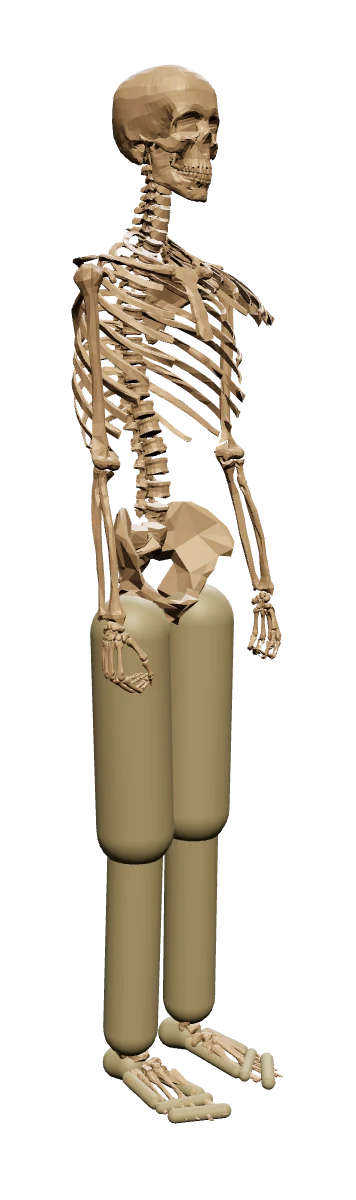
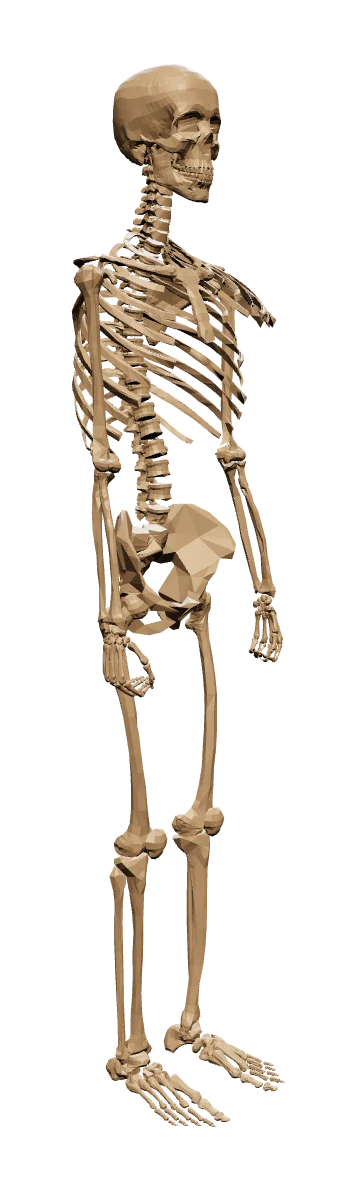
Separate MJCF visual and collision groups

Changed region(s): [[0.1854, 0.0617, 0.8034, 0.9558], [0.309, 0.0925, 0.3399, 0.1233]]

diff --git a/web/js/mjcf.js b/web/js/mjcf.js
@@ -28,9 +28,11 @@
  * - **A free joint is six.** The gallery pins every robot the way a URDF root
  *   link is pinned, so a free joint becomes a fixed one — the base is where the
  *   description puts it and there is nothing to actuate.
- * - **Geometry says whether it is for looking at or for touching.** MuJoCo
- *   draws geom groups 0–2 and hides 3 and up, which is exactly the split the
- *   gallery's visual/collision toggle wants, so that is the rule used here.
+ * - **Geometry says whether it is for looking at or for touching.** Authors
+ *   normally separate render and contact shapes by geom group, but the group
+ *   numbers are only labels — Menagerie mostly uses 2/3 while MS-Human-700
+ *   uses 0/1. The mesh-rich, non-contact group is therefore selected as the
+ *   visual view and the other groups become the collision view.
  *
  * Nothing in here touches the DOM or the network directly: the caller supplies
  * a URL resolver and a loading manager, which is what lets the same code serve
@@ -53,18 +55,6 @@ const DEFAULT_ANGLE = 'degree';
 
 /** The grey MuJoCo paints a geom that names neither `rgba` nor a material. */
 const DEFAULT_RGBA = [0.5, 0.5, 0.5, 1];
-
-/**
- * Geom groups the gallery reads as collision geometry.
- *
- * MuJoCo's viewer draws groups 0, 1 and 2 and leaves 3 and up switched off,
- * and Menagerie is written to that convention: a `class="visual"` default sets
- * `group="2"`, a `class="collision"` one sets `group="3"`. Following the same
- * line means a model that never split the two — one geom doing both jobs, as
- * most simple descriptions do — comes out as visible geometry rather than as a
- * robot made entirely of translucent hulls.
- */
-const COLLISION_GROUP = 3;
 
 /** Geom types that describe the world rather than the robot, or that nothing
  *  here can draw: an infinite ground plane, a height field, a signed-distance
@@ -612,6 +602,7 @@ export class MJCFDocument {
     this.textureJobs = new Map();
     this.mass = 0;
     this.geomCounts = { visual: 0, collision: 0 };
+    this.visualGeomGroup = this.primaryVisualGeomGroup();
 
     for (const worldbody of this.root.querySelectorAll('mujoco > worldbody')) {
       for (const body of worldbody.children) {
@@ -866,8 +857,69 @@ export class MJCFDocument {
   // -------------------------------------------------------------------- geoms
 
   /**
+   * The effective geom groups used by robot bodies, with the clues that say
+   * which one is meant to be looked at. Group numbers are not semantic: most
+   * Menagerie models use 2 for meshes and 3 for contact hulls, while
+   * MS-Human-700 uses 0 for bone meshes and 1 for capsule contact shapes.
+   *
+   * Includes are already flattened and defaults are already resolved here.
+   * `childclass` still has to be carried down the body tree, exactly as it is
+   * when the same geom is attached below.
+   */
+  geomGroups() {
+    const groups = new Map();
+    const walk = (body, inheritedClass) => {
+      const childClass = body.getAttribute('childclass') || inheritedClass;
+      for (const node of body.children) {
+        if (node.tagName === 'body') {
+          walk(node, childClass);
+          continue;
+        }
+        if (node.tagName !== 'geom') continue;
+        const attrs = withDefaults(node, 'geom', this.classes, childClass);
+        const type = attrs.type || (attrs.mesh ? 'mesh' : 'sphere');
+        if (SKIPPED_GEOMS.has(type)) continue;
+        const group = num(attrs.group, 0);
+        const facts = groups.get(group) || { group, geoms: 0, meshes: 0, nonContact: 0 };
+        facts.geoms += 1;
+        if (type === 'mesh') facts.meshes += 1;
+        if (num(attrs.contype, 1) === 0 && num(attrs.conaffinity, 1) === 0) {
+          facts.nonContact += 1;
+        }
+        groups.set(group, facts);
+      }
+    };
+    for (const worldbody of this.root.querySelectorAll('mujoco > worldbody')) {
+      for (const body of worldbody.children) {
+        if (body.tagName === 'body') walk(body, '');
+      }
+    }
+    return groups;
+  }
+
+  /**
+   * Pick one group for the normal render. Mesh count is the strongest clue;
+   * contact-disabled geoms are next. Group 2 only breaks a remaining tie so
+   * the conventional 2/3 spelling stays conventional without being assumed.
+   * A one-group model simply uses the group it has.
+   */
+  primaryVisualGeomGroup(groups = this.geomGroups()) {
+    const ranked = [...groups.values()].sort(
+      (a, b) =>
+        b.meshes - a.meshes ||
+        b.nonContact - a.nonContact ||
+        Number(b.group === 2) - Number(a.group === 2) ||
+        b.geoms - a.geoms ||
+        a.group - b.group,
+    );
+    return ranked[0]?.group ?? 0;
+  }
+
+  /**
    * One `<geom>`, wrapped the way the overlay toggles expect: a `URDFVisual`
-   * for geometry MuJoCo would draw, a `URDFCollider` for the groups it hides.
+   * for the model's primary render group, a `URDFCollider` for every other
+   * group. Keeping group views separate prevents alternative render/contact
+   * representations from being baked together in cards and snapshots.
    */
   attachGeom(element, link, childClass) {
     const attrs = withDefaults(element, 'geom', this.classes, childClass);
@@ -875,9 +927,7 @@ export class MJCFDocument {
     if (SKIPPED_GEOMS.has(type)) return;
 
     const group = num(attrs.group, 0);
-    // MuJoCo hides group 3 and up; everything it draws is what this gallery
-    // calls visual geometry.
-    const isCollision = group >= COLLISION_GROUP;
+    const isCollision = group !== this.visualGeomGroup;
     const wrapper = isCollision ? new URDFCollider() : new URDFVisual();
     const name = attrs.name || `${link.urdfName}·${type}`;
     wrapper.urdfName = name;
@@ -1273,8 +1323,8 @@ export async function inspectMJCF(options) {
   for (const node of document.root.querySelectorAll('inertial')) {
     mass += num(node.getAttribute('mass'), 0);
   }
-  const groupOf = (node) =>
-    num(withDefaults(node, 'geom', document.classes, '').group, 0);
+  const geomGroups = document.geomGroups();
+  const visualGeomGroup = document.primaryVisualGeomGroup(geomGroups);
 
   return {
     name: document.modelName,
@@ -1287,9 +1337,7 @@ export async function inspectMJCF(options) {
       0,
     ),
     mass_kg: mass ? +mass.toFixed(3) : null,
-    has_collision: [...document.root.querySelectorAll('geom')].some(
-      (node) => groupOf(node) >= COLLISION_GROUP,
-    ),
+    has_collision: [...geomGroups.keys()].some((group) => group !== visualGeomGroup),
     has_inertia: document.root.querySelector('inertial') !== null,
     xml: [normalize(document.path), ...document.included],
     assets: [...document.meshes.values(), ...document.textures.values()].map(

diff --git a/web/js/detail.js b/web/js/detail.js
@@ -354,8 +354,19 @@ export class Detail {
       if (!button) return;
       const key = button.dataset.overlay;
       const next = button.getAttribute('aria-pressed') !== 'true';
-      button.setAttribute('aria-pressed', String(next));
-      this.viewer.setOverlay(key, next);
+      // MJCF authors conventionally put render and contact geometry in
+      // separate geom groups. Showing both at once turns that separation back
+      // into the opaque pile the groups were meant to avoid, so those two
+      // choices behave as an exclusive view for MJCF. URDF keeps the useful
+      // collision-over-visual inspection mode it has always offered.
+      if (
+        next &&
+        (key === 'visual' || key === 'collision') &&
+        descriptionKind(this.robot) === 'mjcf'
+      ) {
+        this.setOverlay(key === 'visual' ? 'collision' : 'visual', false);
+      }
+      this.setOverlay(key, next);
     });
 
     el('stage-toolbar').addEventListener('click', (event) => {
@@ -440,6 +451,28 @@ export class Detail {
     this.bindStage();
     this.bindPanelResize();
     this.watchToolbarHeight();
+  }
+
+  /** Keep the button and the scene graph on the same overlay state. */
+  setOverlay(key, enabled) {
+    const button = el('overlay-toggles').querySelector(`[data-overlay="${key}"]`);
+    button?.setAttribute('aria-pressed', String(enabled));
+    this.viewer.setOverlay(key, enabled);
+  }
+
+  /**
+   * A visitor can arrive from a URDF with its visual and collision overlays
+   * both enabled. MJCF treats those as alternative geom-group views, so enter
+   * it on the visual group rather than carrying the mixed URDF view across.
+   */
+  applyOverlayPolicy(robot) {
+    if (
+      descriptionKind(robot) === 'mjcf' &&
+      this.viewer.overlays.visual &&
+      this.viewer.overlays.collision
+    ) {
+      this.setOverlay('collision', false);
+    }
   }
 
   /**
@@ -859,6 +892,7 @@ export class Detail {
     const stage = el('canvas-host').parentElement;
     delete stage.dataset.loaded;
     this.robot = robot;
+    this.applyOverlayPolicy(robot);
     // A file the visitor picked off their own disk has no maker, no upstream
     // and nothing to download that they do not already have, so those panels
     // step aside for one that says what was read and where it stayed.

diff --git a/scripts/build_registry.py b/scripts/build_registry.py
@@ -1065,19 +1065,19 @@ def inspect_mjcf(base: str, scene_path: str, http: Http) -> MjcfFacts:
         except ValueError:
             pass
 
-    # The same reading web/js/mjcf.js takes: MuJoCo draws geom groups 0 to 2 and
-    # hides 3 and up, so group 3 is what the gallery calls collision geometry.
-    # Asked of the whole document rather than of each geom's effective class,
-    # because the answer wanted here is one bit — does this description separate
-    # contact geometry from the geometry it is drawn with — and a model that does
-    # says so by writing the group somewhere, on the geom or on its default.
+    # Group numbers are labels rather than a fixed visual/collision threshold:
+    # Menagerie commonly uses 2/3, while MS-Human-700 uses 0/1 for its bone
+    # meshes and capsule contact shapes. The browser picks the primary visual
+    # group from the effective body geoms; this build-time bit only needs to say
+    # whether the document declares more than one group at all. Asked of both
+    # body geoms and defaults so an inherited group still counts.
     def group_of(node: ET.Element) -> int:
         try:
             return int(node.get("group") or 0)
         except ValueError:
             return 0
 
-    has_collision = any(group_of(geom) >= 3 for geom in root.iter("geom"))
+    has_collision = len({group_of(geom) for geom in root.iter("geom")}) > 1
 
     facts = MjcfFacts(
         ok=True,
